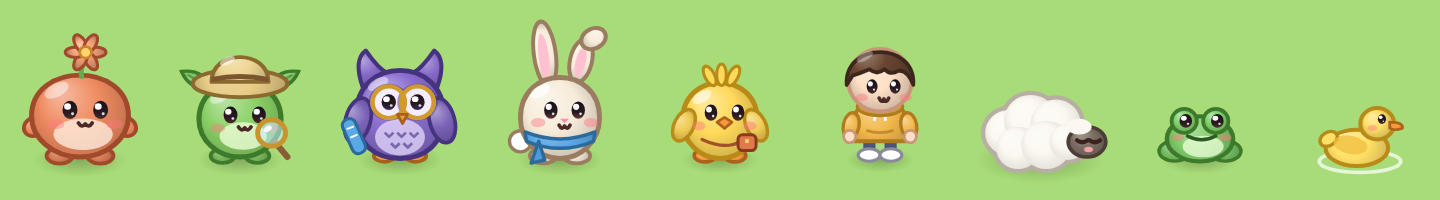
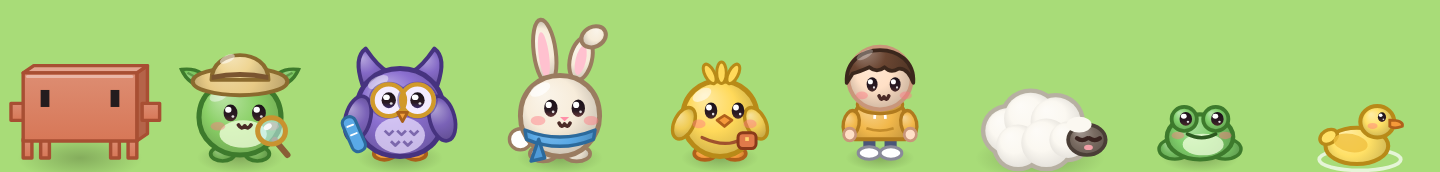
Claude 캐릭터를 Claude Code 마스코트(클로드봇)로 교체
Claude Code 실행 파일에 들어 있는 마스코트 스프라이트 정의를 기준으로 그렸다.

- 기본 모습: 몸통 13x4 픽셀(가로 1 : 세로 2), 둘째 줄의 세로로 긴 네모 눈 두 개,
  셋째 줄 양옆 팔, 가운데가 빈 네 다리, 색 rgb(215,119,87)
- 표정: 뜬 눈(기본), 걸을 때 가는 쪽 보기, 감은 눈(가는 눈꺼풀 선),
  기분 좋을 때만 > < 눈
- 마을 블록과 어울리도록 몸통에 윗면과 옆면을 붙여 입체로 그림
- 작업 소품(안경, 안전모, 헤드셋 등) 위치를 새 몸통에 맞춤
- README 캐릭터 설명과 캐릭터 시트, 대표 스크린샷 4장을 새로 찍어 교체

Claude-Session: https://claude.ai/code/session_01VkJvAcnZP5o4Ey8mpCUtMx

diff --git a/public/critters.js b/public/critters.js
@@ -1,4 +1,4 @@
-// 마을 캐릭터 그리기. 모두 이 프로젝트를 위해 새로 디자인한 오리지널 캐릭터다.
+// 마을 캐릭터 그리기. 클로드봇은 Claude Code 마스코트를 본떴고, 나머지는 이 프로젝트를 위해 새로 디자인했다.
 // 각 함수는 발밑을 (0,0)으로 두고 위쪽(-y)으로 그리며, 오른쪽을 바라보는 3/4 정면 모습이다.
 import { shade, rgba } from './art.js';
 
@@ -109,34 +109,64 @@ function leaf(ctx, x, y, ang, len, wid, color, line) {
   ctx.restore();
 }
 
-// ---------------------------------------------------------------- 모찌 (Claude)
+// ---------------------------------------------------------------- 클로드봇 (Claude)
 
-// 코랄색 찹쌀떡. 머리 위에 여섯 갈래 별꽃 새싹이 났다.
-function mochi(ctx, o) {
-  const base = '#ef8b60', line = '#a14a2b';
-  const swing = o.step * 1.5;
-  feet(ctx, shade(base, -0.12), line, o.step, 6.5);
-  ell(ctx, -14.5, -11 + swing, 3.6, 3, soft(ctx, -14.5, -11, 4, base), line, 1.2, -0.5);
-  ell(ctx, 14.5, -11 - swing, 3.6, 3, soft(ctx, 14.5, -11, 4, base), line, 1.2, 0.5);
-  bodyPath(ctx, 0, -14.5, 15.5, 13.5);
-  paint(ctx, base, line, 0, -15, 16);
-  ell(ctx, 1, -8.5, 9.5, 5.2, 'rgba(255,243,230,.75)');
-  sheen(ctx, -7.5, -23, 4.2, 2.2);
-  // 별꽃 새싹
-  ctx.strokeStyle = '#6aa84f'; ctx.lineWidth = 1.6; ctx.lineCap = 'round';
-  ctx.beginPath(); ctx.moveTo(0.5, -27.5); ctx.quadraticCurveTo(0, -30, 1.5, -32.5); ctx.stroke();
-  const cx = 1.8, cy = -35.5;
-  for (let i = 0; i < 6; i++) {
-    const a = i / 6 * TAU + (o.t ? Math.sin(o.t * 2) * 0.08 : 0);
-    ell(ctx, cx + Math.cos(a) * 3.2, cy + Math.sin(a) * 3.2, 1.7, 3.3, soft(ctx, cx, cy, 5, '#f7a47c', 0.35), line, 1, a + Math.PI / 2);
+// Claude Code 터미널 마스코트의 기본 스프라이트를 그대로 옮겼다.
+//    ▐▛███▛█       반칸 블록 하나 = 픽셀 하나(가로 1 : 세로 2).
+//   ▝▜██████▀      몸통 13×4 픽셀, 둘째 줄 양끝에서 셋째 칸에 세로로 긴 눈 구멍,
+//    ▝▝   ▝▝       셋째 줄에서 양옆으로 두 칸 팔, 가운데가 빈 네 다리. 색은 rgb(215,119,87).
+// 마을의 다른 블록과 어울리도록 몸통에 윗면과 옆면을 붙여 입체로 그린다.
+const CLAWD_PW = 2.8, CLAWD_PH = 5.6;                      // 픽셀 하나의 가로·세로
+const clawdX = i => (i - 9.5) * CLAWD_PW;                        // 스프라이트 열 → x (몸통 열 3..15)
+const clawdY = j => -28 + j * CLAWD_PH;                          // 스프라이트 행 → y (몸통 행 0..3, 다리 행 4)
+
+function clawd(ctx, o) {
+  const base = '#d77757', line = '#a84f33', eyeCol = '#231c1e';
+  const dx = 3.4, dy = -2.4;                                 // 윗면·옆면 깊이
+  const x0 = clawdX(3), x1 = clawdX(16), y0 = clawdY(0), y1 = clawdY(4);
+  const poly = (pts, fill) => {
+    ctx.beginPath(); ctx.moveTo(pts[0], pts[1]);
+    for (let i = 2; i < pts.length; i += 2) ctx.lineTo(pts[i], pts[i + 1]);
+    ctx.closePath(); ctx.fillStyle = fill; ctx.fill();
+    ctx.strokeStyle = line; ctx.lineWidth = 1.1; ctx.lineJoin = 'round'; ctx.stroke();
+  };
+  const front = (ax, ay, bx, by) => {
+    const g = ctx.createLinearGradient(0, ay, 0, by);
+    g.addColorStop(0, shade(base, 0.16)); g.addColorStop(1, base);
+    poly([ax, ay, bx, ay, bx, by, ax, by], g);
+  };
+
+  // 다리 네 개 (열 3, 5, 13, 15). 걸을 땐 바깥 왼다리·안쪽 오른다리와 나머지 둘이 번갈아 들린다.
+  const liftA = Math.max(0, o.step) * 2.2, liftB = Math.max(0, -o.step) * 2.2;
+  for (const [col, lift] of [[3, liftA], [5, liftB], [13, liftA], [15, liftB]]) front(clawdX(col), y1 - 0.6, clawdX(col + 1), -lift);
+  // 팔 (셋째 줄, 양옆 두 칸). 몸통 깊이의 가운데에 붙어 있다.
+  const swing = o.step * 1, ax = dx * 0.5, ay = dy * 0.5;
+  front(clawdX(1) + ax, clawdY(2) + ay + swing, clawdX(3) + ax, clawdY(3) + ay + swing);
+  // 몸통: 옆면, 윗면, 앞면
+  poly([x1, y0, x1 + dx, y0 + dy, x1 + dx, y1 + dy, x1, y1], shade(base, -0.16));
+  poly([x0, y0, x1, y0, x1 + dx, y0 + dy, x0 + dx, y0 + dy], shade(base, 0.34));
+  front(x0, y0, x1, y1);
+  front(clawdX(16) + ax, clawdY(2) + ay - swing, clawdX(18) + ax, clawdY(3) + ay - swing);
+  ctx.strokeStyle = 'rgba(255,255,255,.38)'; ctx.lineWidth = 1; ctx.lineCap = 'round';
+  ctx.beginPath(); ctx.moveTo(x0 + 1.4, y0 + 1.2); ctx.lineTo(x1 - 1.6, y0 + 1.2); ctx.stroke();
+
+  // 눈: 기본은 세로로 긴 네모 구멍 (열 5·13, 둘째 줄). 걸을 땐 가는 쪽을 본다 (열 6·14, 첫째 줄).
+  ctx.fillStyle = eyeCol; ctx.strokeStyle = eyeCol;
+  if (o.eyes === 'closed' || o.blink) {
+    // 감은 눈: 눈 칸 아래쪽의 가는 눈꺼풀 선
+    for (const c of [4, 12]) ctx.fillRect(clawdX(c), clawdY(2) - CLAWD_PH * 0.42, CLAWD_PW * 2, CLAWD_PH * 0.42);
+  } else if (o.eyes === 'happy') {
+    // 기분 좋을 때만 쓰는 > < 눈 (원래 스프라이트에는 없는 표정)
+    ctx.lineWidth = 2.4; ctx.lineCap = 'butt'; ctx.lineJoin = 'miter';
+    const ey = clawdY(1) + CLAWD_PH * 0.2;
+    ctx.beginPath(); ctx.moveTo(clawdX(4.2), ey - 3.4); ctx.lineTo(clawdX(6.3), ey); ctx.lineTo(clawdX(4.2), ey + 3.4); ctx.stroke();
+    ctx.beginPath(); ctx.moveTo(clawdX(14.8), ey - 3.4); ctx.lineTo(clawdX(12.7), ey); ctx.lineTo(clawdX(14.8), ey + 3.4); ctx.stroke();
+  } else {
+    const look = o.step !== 0 ? 1 : 0;
+    for (const c of [5, 13]) ctx.fillRect(clawdX(c + look), clawdY(1 - look), CLAWD_PW, CLAWD_PH);
   }
-  ell(ctx, cx, cy, 1.9, 1.9, '#ffd36e', '#c9862a', 0.9);
-  const fx = 1.2;
-  eye(ctx, -4.4 + fx, -16.5, 2.4, 3, o);
-  eye(ctx, 5.4 + fx, -16.5, 2.4, 3, o);
-  cheeks(ctx, -8.8 + fx, 9.8 + fx, -11.8);
-  mouth(ctx, 0.5 + fx, -12.2, o.mouth || 'smile', 2.2);
-  return { top: -40, eyes: [[-4.4 + fx, -16.5], [5.4 + fx, -16.5]], head: { x: 0.5, y: -28, w: 14 } };
+  const eyeY = clawdY(1) + CLAWD_PH / 2;
+  return { top: y0 + dy - 0.5, eyes: [[clawdX(5.5), eyeY], [clawdX(13.5), eyeY]], head: { x: 1.2, y: y0 + dy * 0.5, w: 19 } };
 }
 
 // ---------------------------------------------------------------- 새싹이 (Explore)
@@ -363,7 +393,7 @@ function duck(ctx, o) {
 }
 
 export const SPECIES = {
-  mochi: { name: '모찌', draw: mochi, color: '#ef8b60', w: 1.1 },
+  clawd: { name: '클로드봇', draw: clawd, color: '#d77757', w: 1.45 },
   sprout: { name: '새싹이', draw: sprout, color: '#6cc04e' },
   owl: { name: '부엉이', draw: owl, color: '#8b6fd0' },
   bunny: { name: '토끼', draw: bunny, color: '#5aa9e6' },
@@ -512,7 +542,7 @@ const CHAR_SCALE = 1.4;
 
 // (ch.sx, ch.sy)는 발 위치. 말풍선을 붙일 머리 꼭대기 y를 돌려준다.
 export function drawCharacter(ctx, ch, t) {
-  const sp = SPECIES[ch.species] || SPECIES.mochi;
+  const sp = SPECIES[ch.species] || SPECIES.clawd;
   const seed = ch.seed || 0;
   const walking = ch.moving;
   const phase = t * 10 + seed;
@@ -567,7 +597,7 @@ export function portrait(species, size = 34) {
   c.style.width = c.style.height = size + 'px';
   const ctx = c.getContext('2d');
   ctx.scale(dpr, dpr);
-  const sp = SPECIES[species] || SPECIES.mochi;
+  const sp = SPECIES[species] || SPECIES.clawd;
   const k = size / 46;
   ctx.translate(size / 2, size * 0.94);
   ctx.scale(k, k);

diff --git a/public/app.js b/public/app.js
@@ -119,7 +119,7 @@ class Town {
 
     this.user = this.add(new Agent({ id: 'user', kind: 'user', species: 'human', label: opts.userName + ' (나)', color: SPECIES.human.color, speed: 2.5 }));
     this.place(this.user, world.userSeat);
-    this.claude = this.add(new Agent({ id: 'claude', kind: 'claude', species: 'mochi', label: 'Claude', color: CLAUDE_COLOR }));
+    this.claude = this.add(new Agent({ id: 'claude', kind: 'claude', species: 'clawd', label: 'Claude', color: CLAUDE_COLOR }));
     this.place(this.claude, world.claudeSeat);
 
     // 마을 주민: 쉼터에서 자는 양, 연못가를 뛰어다니는 개구리, 헤엄치는 오리
@@ -816,7 +816,7 @@ function renderLogs() {
 
 function renderLegend() {
   const rooms = ['library', 'dev', 'server', 'info', 'meeting', 'lobby', 'elevator'];
-  const cast = [['mochi', 'Claude', '방마다 작업 모자'], ['sprout', 'Explore', '탐험 모자 · 돋보기'], ['owl', 'Plan', '안경 · 설계도'],
+  const cast = [['clawd', 'Claude', '방마다 작업 모자'], ['sprout', 'Explore', '탐험 모자 · 돋보기'], ['owl', 'Plan', '안경 · 설계도'],
     ['bunny', '범용', '파란 목도리'], ['chick', '그 밖의 에이전트', ''], ['human', '나', '']];
   $('#legend').innerHTML = rooms.map(k => `<li><span>${ROOMS[k].icon}</span><b>${ROOMS[k].name}</b><em>${ROOMS[k].desc}</em></li>`).join('') +
     cast.map(([sp, who, note]) => `<li class="cast"><img src="${portraitUrl(sp)}" alt=""><b>${SPECIES[sp].name}</b><em>${who}${note ? ' · ' + note : ''}</em></li>`).join('');

diff --git a/README.md b/README.md
@@ -98,7 +98,7 @@ node server.js --demo
 
 | 캐릭터 | 맡은 역할 |
 | --- | --- |
-| **모찌** — 별꽃 새싹이 난 코랄색 찹쌀떡 | Claude |
+| **클로드봇** — Claude Code 터미널 마스코트. 주황색 블록 몸, 세로로 긴 네모 눈, 네 다리 | Claude |
 | **새싹이** — 탐험 모자와 돋보기 | Explore 서브에이전트 |
 | **부엉이** — 둥근 안경과 설계도 | Plan 서브에이전트 |
 | **토끼** — 파란 목도리 | 범용(general-purpose) 서브에이전트 |
@@ -108,7 +108,7 @@ node server.js --demo
 
 서브에이전트는 일이 끝나면 Claude 옆으로 걸어와 결과를 보고하고 "👋 퇴근합니다!" 하고 엘리베이터로 사라진다. 보고하러 가다가 일을 하나 더 받으면 다시 일하러 돌아간다.
 
-캐릭터와 마을 그림은 모두 이 프로젝트를 위해 캔버스 코드로 직접 그린 오리지널이며, 외부 이미지 파일을 쓰지 않는다.
+클로드봇은 Claude Code에 들어 있는 마스코트 스프라이트의 모양·비율·색(`rgb(215,119,87)`)을 그대로 옮겨 입체로 그렸다. 원래 스프라이트에 있는 표정(뜬 눈, 가는 쪽 보기, 감은 눈)을 쓰고, 기분 좋을 때만 `> <` 눈을 쓴다. 나머지 캐릭터와 마을 그림은 이 프로젝트를 위해 직접 디자인했다. 모두 캔버스 코드로 그리며 외부 이미지 파일을 쓰지 않는다.
 
 ## 동작 방식
 
